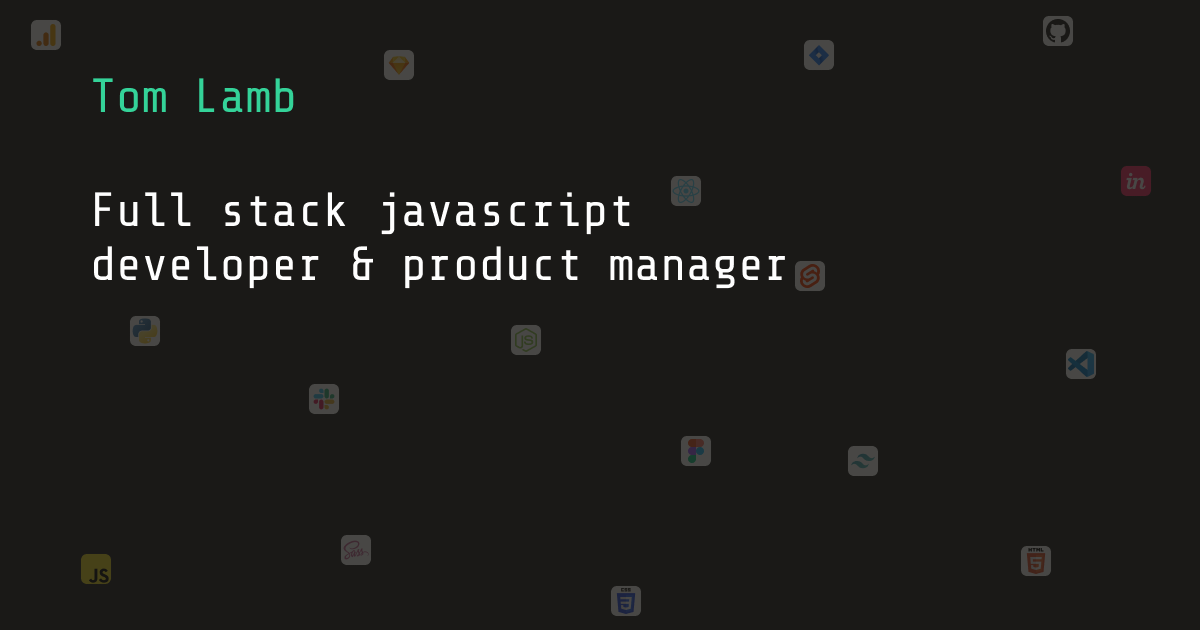
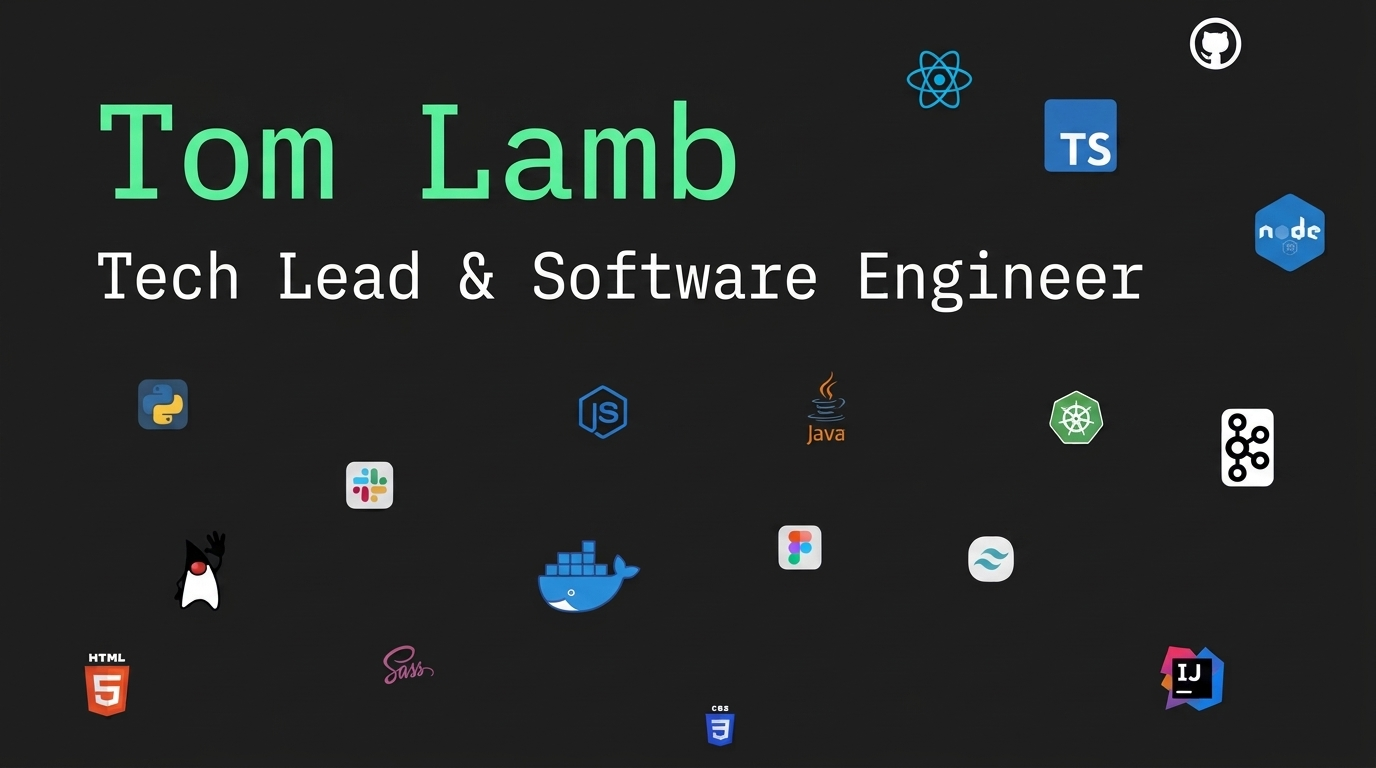
feat: update metadata

diff --git a/src/utils/metadata.ts b/src/utils/metadata.ts
@@ -6,10 +6,13 @@ export interface MetaData {
   title: string;
   description: string;
   url: string;
+  /* Keep the page out of search results (e.g. the 404 page) */
+  noIndex?: boolean;
 }
 
 interface Pages {
   index: MetaData;
+  notFound: MetaData;
 }
 
 export const pageData: Pages = {
@@ -18,6 +21,22 @@ export const pageData: Pages = {
     description: "Tech lead and software engineer in Paris. Java, Kafka, Kubernetes and TypeScript, with a background in product management and UX/UI design.",
     url: routes.index(),
   },
+  notFound: {
+    title: "Page not found | Tom Lamb",
+    description: "This page doesn't exist. Head back to tom-lamb.com.",
+    url: routes.index(),
+    noIndex: true,
+  },
+};
+
+export const SITE_NAME = "Tom Lamb";
+
+/* Bump the version when the image changes, so link-preview caches fetch the new one */
+const OG_IMAGE = {
+  url: "/og-image.png?v=2",
+  width: 1200,
+  height: 630,
+  alt: "Tom Lamb, Tech Lead & Software Engineer in Paris",
 };
 
 const isDevelopment = process.env.NODE_ENV === "development";
@@ -31,28 +50,44 @@ export const createMetadata = ({
   title,
   description,
   url,
+  noIndex = false,
 }: MetaData): Metadata => {
+  const index = !isDevelopment && !noIndex;
+
   return {
     title,
     description,
+    applicationName: SITE_NAME,
+    authors: [{
+      name: SITE_NAME,
+      url: "/" 
+    }],
+    creator: SITE_NAME,
     alternates: {
-      canonical: url,
+      canonical: noIndex ? undefined : url,
     },
     openGraph: {
       title,
       description,
       url,
-      siteName: title,
-      images: ["/og-image.png"],
+      siteName: SITE_NAME,
+      images: [OG_IMAGE],
       locale: "en_GB",
       type: "website",
     },
+    twitter: {
+      card: "summary_large_image",
+      title,
+      description,
+      images: [OG_IMAGE],
+    },
     robots: {
-      index: !isDevelopment,
+      index,
       follow: !isDevelopment,
       googleBot: {
-        index: !isDevelopment,
+        index,
         follow: !isDevelopment,
+        "max-image-preview": "large",
       },
     },
     icons: {

diff --git a/src/app/page.tsx b/src/app/page.tsx
@@ -1,13 +1,44 @@
 import type { Metadata } from "next";
 import type { ReactElement } from "react";
 
+import { URLS } from "@/constants/url";
 import { HomeScreen } from "@/screens/home";
 import { createMetadata, pageData } from "@/utils/metadata";
 
 export const metadata: Metadata = createMetadata(pageData.index);
 
+/* Structured data so search engines can tie the site and profiles to one person */
+const personJsonLd = {
+  "@context": "https://schema.org",
+  "@type": "Person",
+  name: "Tom Lamb",
+  url: URLS.PROD,
+  image: `${URLS.PROD}/og-image.png`,
+  jobTitle: "Tech Lead & Software Engineer",
+  worksFor: {
+    "@type": "Organization",
+    name: "Decathlon Digital",
+  },
+  address: {
+    "@type": "PostalAddress",
+    addressLocality: "Paris",
+    addressCountry: "FR",
+  },
+  sameAs: [URLS.GITHUB, URLS.LINKEDIN, URLS.INSTAGRAM],
+};
+
 const Home = (): ReactElement => {
-  return <HomeScreen />;
+  return (
+    <>
+      <script
+        type="application/ld+json"
+        dangerouslySetInnerHTML={{
+          __html: JSON.stringify(personJsonLd).replace(/</g, "\\u003c") 
+        }}
+      />
+      <HomeScreen />
+    </>
+  );
 };
 
 export default Home;

diff --git a/src/components/jumbotron/Jumbotron.tsx b/src/components/jumbotron/Jumbotron.tsx
@@ -3,7 +3,7 @@
 import Image from "next/image";
 import type { ReactElement } from "react";
 
-import TomImg from "@/assets/IMG_3377.png";
+import TomImg from "@/assets/tom-lamb-portrait.webp";
 import { Button } from "@/components/button";
 import { SocialIcons } from "@/components/social_icons";
 import { URLS } from "@/constants/url";
@@ -53,7 +53,8 @@ export const Jumbotron = (): ReactElement => {
             src={TomImg}
             alt="Tom Lamb in a navy t-shirt and a flat cap"
             priority
-            sizes="(min-width: 768px) 400px, 100vw"
+            placeholder="blur"
+            sizes="(min-width: 952px) 300px, 100vw"
             className="w-full h-[380px] object-cover object-top rounded-[28px] border border-linen/10 rise-in [--rise-delay:220ms]"
           />
           <div className="flex flex-col gap-1.5 px-7 py-6 rounded-[28px] border border-slate-blue/30 bg-slate-blue/10 rise-in [--rise-delay:340ms]">

diff --git a/src/app/not-found.tsx b/src/app/not-found.tsx
@@ -4,7 +4,7 @@ import type { ReactElement } from "react";
 import { FourOhFour } from "@/screens/fourOhFour";
 import { createMetadata, pageData } from "@/utils/metadata";
 
-export const metadata: Metadata = createMetadata(pageData.index);
+export const metadata: Metadata = createMetadata(pageData.notFound);
 
 const NotFound = (): ReactElement => {
   return <FourOhFour />;

diff --git a/src/app/layout.tsx b/src/app/layout.tsx
@@ -48,7 +48,7 @@ const GoogleAnalytics = () => {
 };
 
 const RootLayout = ({ children }: LayoutProps) => (
-  <html lang="en">
+  <html lang="en-GB">
     <head>
       <GoogleAnalytics />
     </head>

diff --git a/src/components/footer/Footer.tsx b/src/components/footer/Footer.tsx
@@ -16,7 +16,6 @@ export const Footer = (): ReactElement => {
           date: new Date().getFullYear(),
         })}
       </p>
-      <p>Built with Next.js · Paris</p>
     </footer>
   );
 };
